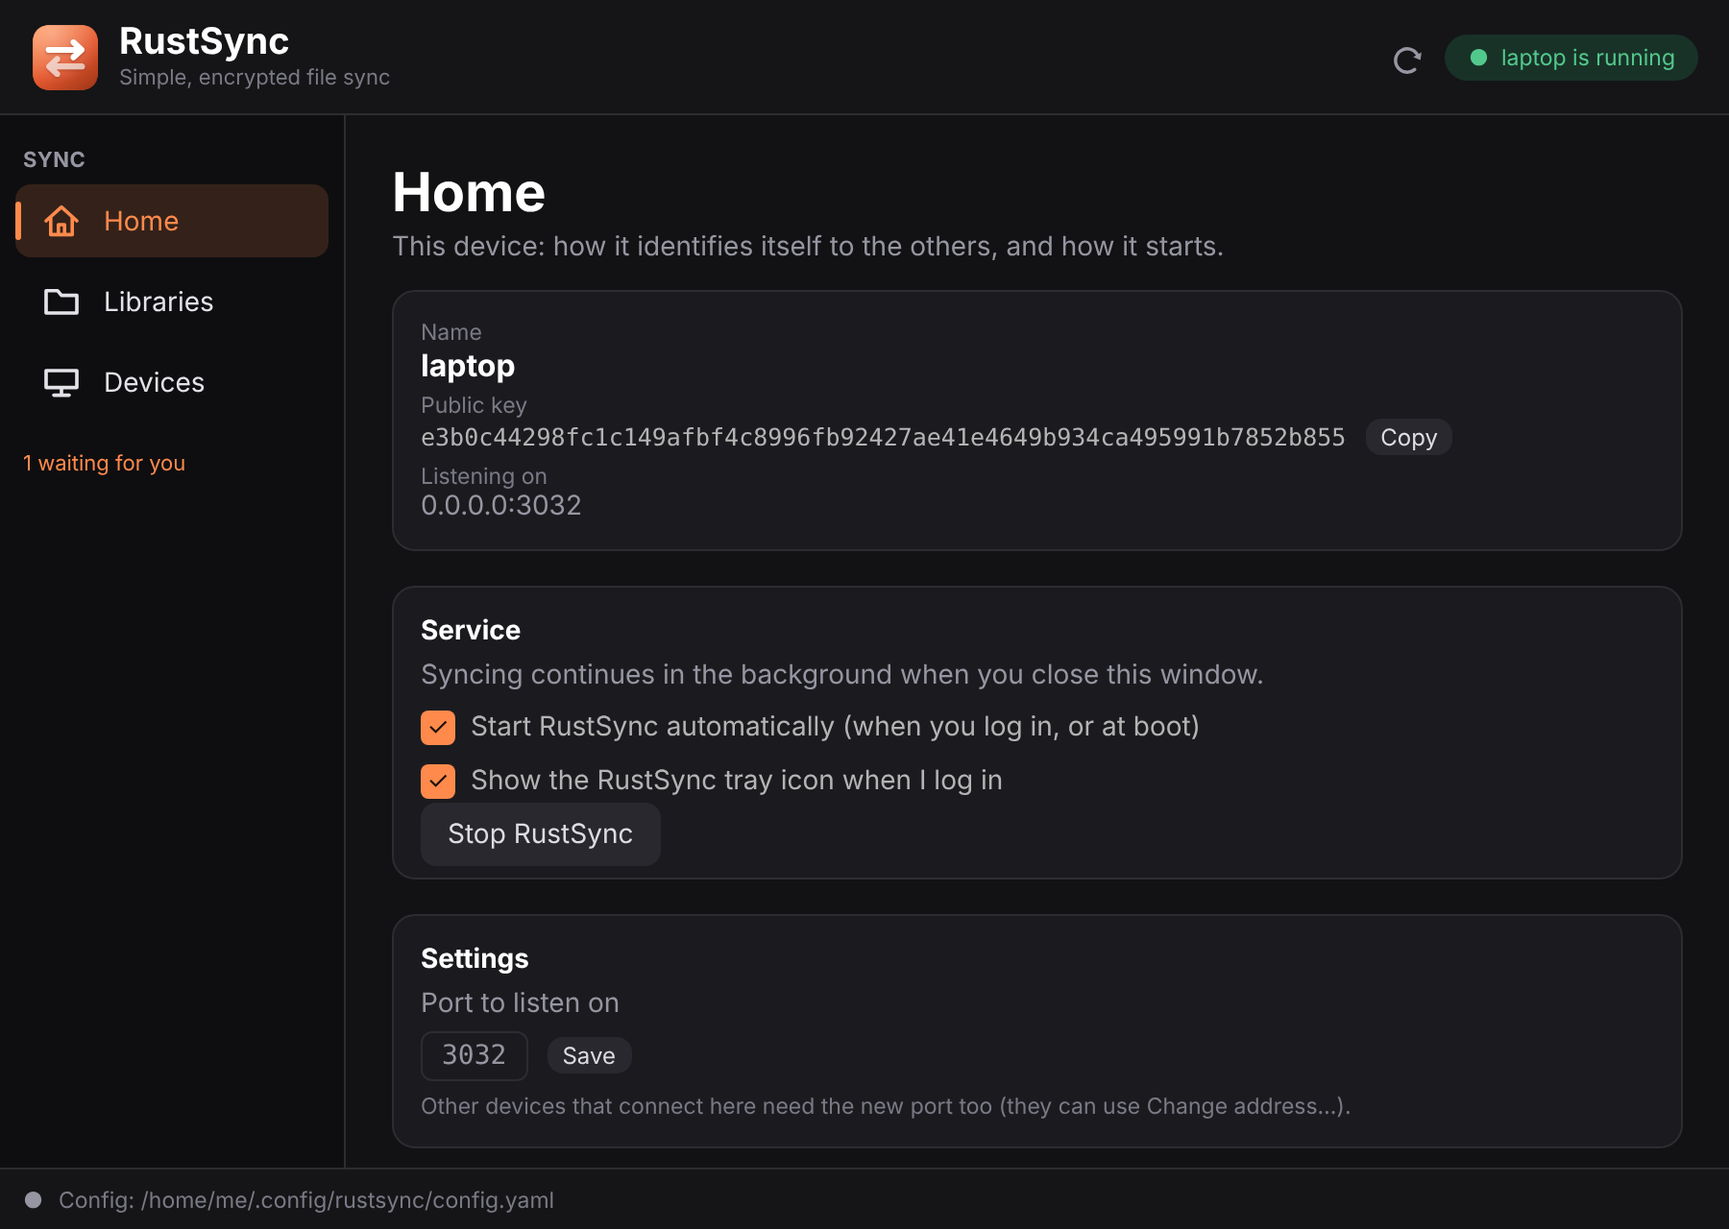
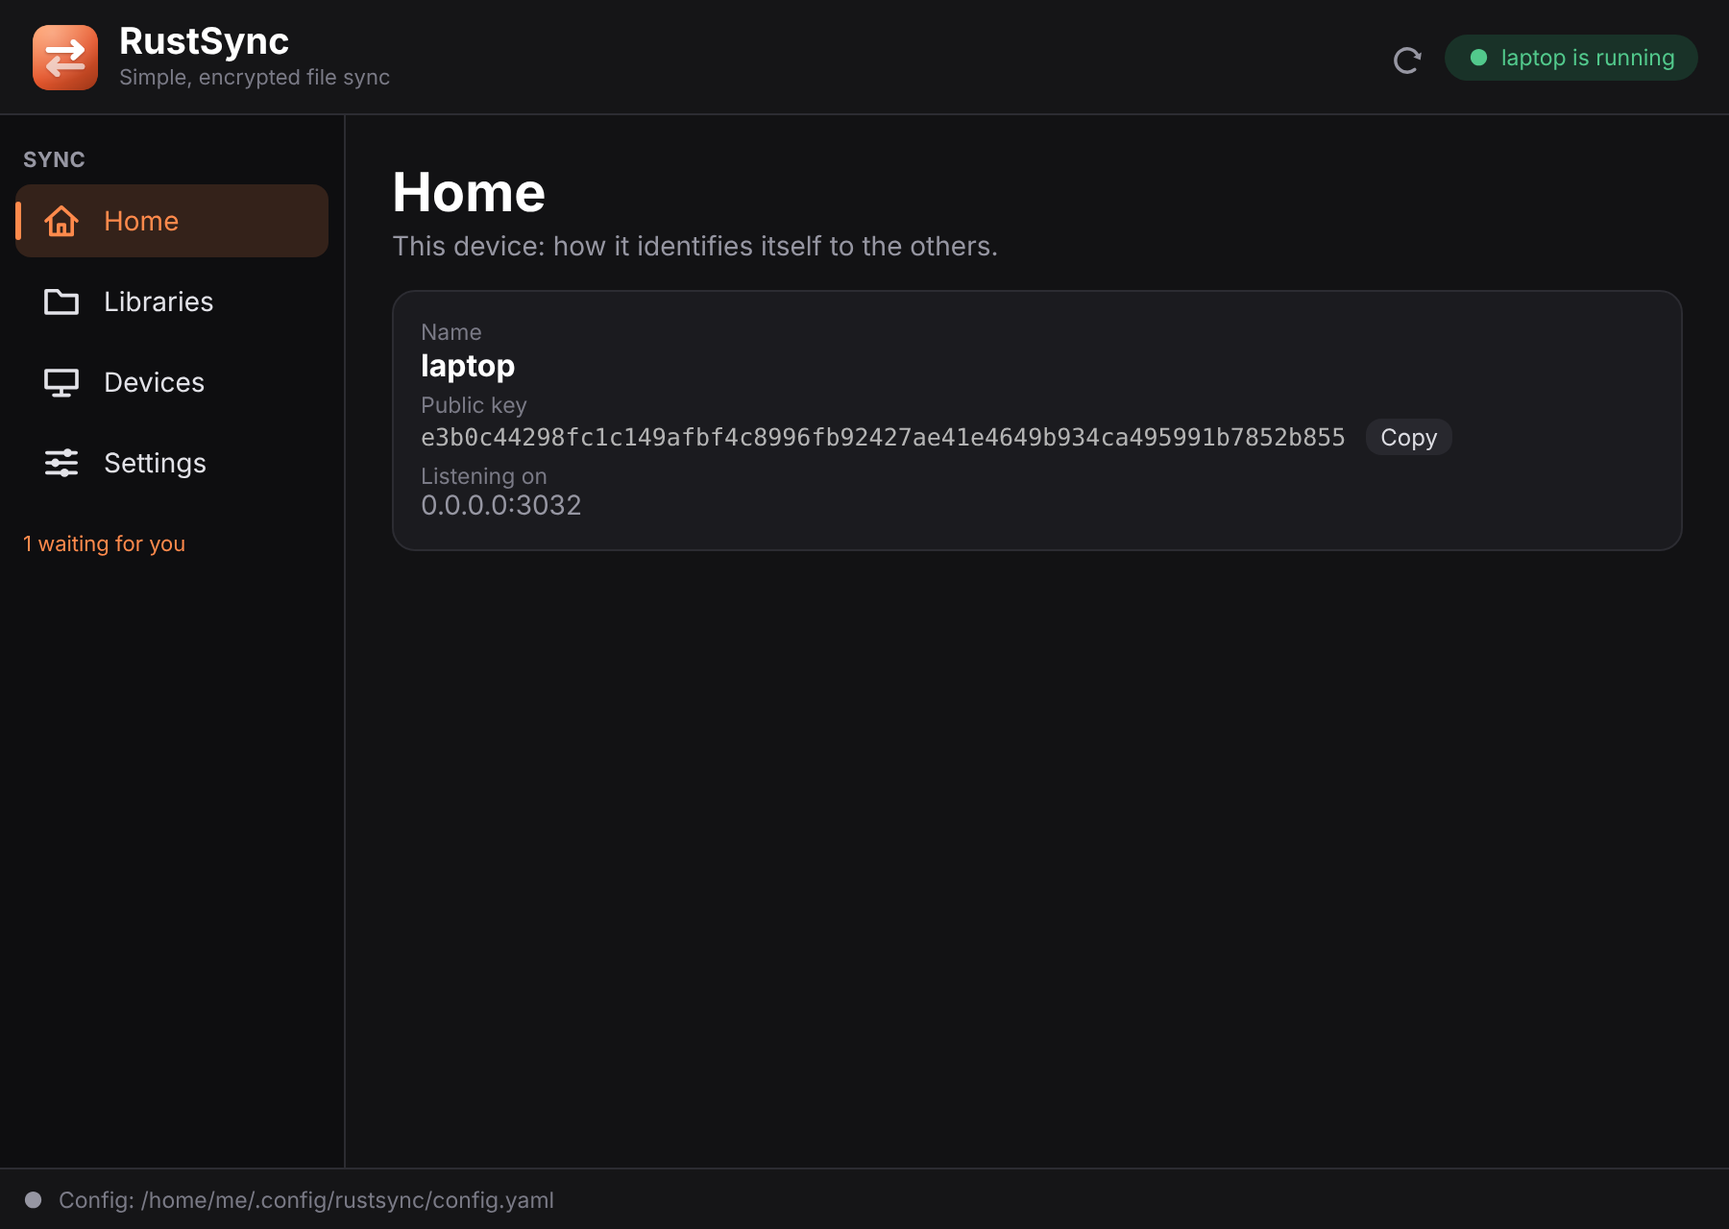
adding settings tab, moving to dmgs for macos

diff --git a/android/app/src/main/java/app/rustsync/MainActivity.kt b/android/app/src/main/java/app/rustsync/MainActivity.kt
@@ -11,40 +11,106 @@ import android.provider.DocumentsContract
 import android.provider.Settings
 import androidx.activity.ComponentActivity
 import androidx.activity.compose.setContent
+import androidx.activity.result.contract.ActivityResultContracts
 import androidx.activity.viewModels
+import androidx.compose.material3.AlertDialog
+import androidx.compose.material3.Text
+import androidx.compose.material3.TextButton
+import androidx.compose.runtime.getValue
+import androidx.compose.runtime.mutableStateOf
+import androidx.compose.runtime.remember
+import androidx.compose.runtime.setValue
 import androidx.core.content.ContextCompat
 
 class MainActivity : ComponentActivity() {
     private val model: Model by viewModels()
 
+    // The ordinary permission pop-ups come first; when they are answered, the one that needs a
+    // screen in Android's settings (all files access, Android 11 and newer).
+    private val runtimePermissions =
+        registerForActivityResult(ActivityResultContracts.RequestMultiplePermissions()) {
+            if (Build.VERSION.SDK_INT >= 30 && !hasAllFilesAccess()) askAllFilesAccess()
+        }
+
     override fun onCreate(savedInstanceState: Bundle?) {
         super.onCreate(savedInstanceState)
-        if (Build.VERSION.SDK_INT >= 33 &&
-            ContextCompat.checkSelfPermission(this, Manifest.permission.POST_NOTIFICATIONS) !=
-            PackageManager.PERMISSION_GRANTED
-        ) {
-            requestPermissions(arrayOf(Manifest.permission.POST_NOTIFICATIONS), 1)
-        }
         SyncService.start(this)
         setContent {
             RustSyncTheme {
+                var setup by remember { mutableStateOf(needsNotifications() || needsCamera() || !hasAllFilesAccess()) }
+                if (setup) {
+                    AlertDialog(
+                        onDismissRequest = { setup = false },
+                        title = { Text("Allow what RustSync needs") },
+                        text = {
+                            Text(
+                                buildString {
+                                    if (needsNotifications()) {
+                                        append("• Notifications: RustSync shows one so Android keeps it running in the background.\n\n")
+                                    }
+                                    if (needsCamera()) {
+                                        append("• Camera: to scan the QR code when you pair another device.\n\n")
+                                    }
+                                    if (!hasAllFilesAccess()) {
+                                        append("• Access to your files: to sync folders such as Documents or Pictures. Android asks for this on a separate settings screen.\n\n")
+                                    }
+                                    append("You can change any of these later in Android's settings.")
+                                },
+                            )
+                        },
+                        confirmButton = {
+                            TextButton(onClick = {
+                                setup = false
+                                requestEverything()
+                            }) { Text("Continue") }
+                        },
+                        dismissButton = { TextButton(onClick = { setup = false }) { Text("Not now") } },
+                    )
+                }
                 App(model, hasAllFilesAccess = { hasAllFilesAccess() }, askAllFilesAccess = { askAllFilesAccess() })
             }
         }
     }
 
+    private fun granted(permission: String): Boolean =
+        ContextCompat.checkSelfPermission(this, permission) == PackageManager.PERMISSION_GRANTED
+
+    private fun needsNotifications(): Boolean =
+        Build.VERSION.SDK_INT >= 33 && !granted(Manifest.permission.POST_NOTIFICATIONS)
+
+    private fun needsCamera(): Boolean = !granted(Manifest.permission.CAMERA)
+
+    /** Before Android 11 "all files" is the ordinary storage permission. */
+    private fun needsOldStorage(): Boolean =
+        Build.VERSION.SDK_INT < 30 &&
+            (!granted(Manifest.permission.READ_EXTERNAL_STORAGE) || !granted(Manifest.permission.WRITE_EXTERNAL_STORAGE))
+
+    private fun requestEverything() {
+        val missing = ArrayList<String>()
+        if (needsNotifications()) missing.add(Manifest.permission.POST_NOTIFICATIONS)
+        if (needsCamera()) missing.add(Manifest.permission.CAMERA)
+        if (needsOldStorage()) {
+            missing.add(Manifest.permission.READ_EXTERNAL_STORAGE)
+            missing.add(Manifest.permission.WRITE_EXTERNAL_STORAGE)
+        }
+        if (missing.isNotEmpty()) {
+            runtimePermissions.launch(missing.toTypedArray())
+        } else if (!hasAllFilesAccess()) {
+            askAllFilesAccess()
+        }
+    }
+
     private fun hasAllFilesAccess(): Boolean =
-        Build.VERSION.SDK_INT < 30 || Environment.isExternalStorageManager()
+        if (Build.VERSION.SDK_INT >= 30) Environment.isExternalStorageManager() else !needsOldStorage()
 
     /** Syncing folders anywhere on the phone needs "all files access", granted in Settings. */
     private fun askAllFilesAccess() {
         if (Build.VERSION.SDK_INT >= 30) {
             val uri = Uri.parse("package:$packageName")
             startActivity(Intent(Settings.ACTION_MANAGE_APP_ALL_FILES_ACCESS_PERMISSION, uri))
-        } else {
-            requestPermissions(
+        } else if (needsOldStorage()) {
+            runtimePermissions.launch(
                 arrayOf(Manifest.permission.READ_EXTERNAL_STORAGE, Manifest.permission.WRITE_EXTERNAL_STORAGE),
-                2,
             )
         }
     }

diff --git a/android/app/src/main/java/app/rustsync/Ui.kt b/android/app/src/main/java/app/rustsync/Ui.kt
@@ -56,7 +56,12 @@ import com.journeyapps.barcodescanner.BarcodeEncoder
 import com.journeyapps.barcodescanner.ScanContract
 import com.journeyapps.barcodescanner.ScanOptions
 
-private val tabs = listOf("Home" to Glyph.Home, "Libraries" to Glyph.Folder, "Devices" to Glyph.Devices)
+private val tabs = listOf(
+    "Home" to Glyph.Home,
+    "Libraries" to Glyph.Folder,
+    "Devices" to Glyph.Devices,
+    "Settings" to Glyph.Settings,
+)
 
 @Composable
 fun App(model: Model, hasAllFilesAccess: () -> Boolean, askAllFilesAccess: () -> Unit) {
@@ -91,9 +96,10 @@ fun App(model: Model, hasAllFilesAccess: () -> Boolean, askAllFilesAccess: () ->
                 Offline(model.offline ?: "")
             } else {
                 when (tab) {
-                    0 -> ThisDevice(model, status, hasAllFilesAccess, askAllFilesAccess)
+                    0 -> ThisDevice(status, hasAllFilesAccess, askAllFilesAccess)
                     1 -> Libraries(model, status)
-                    else -> Devices(model, status)
+                    2 -> Devices(model, status)
+                    else -> SettingsPage(model, status)
                 }
             }
         }
@@ -126,7 +132,7 @@ private fun Offline(reason: String) {
 // ---------------------------------------------------------------- Home
 
 @Composable
-private fun ThisDevice(model: Model, status: Status, hasAllFilesAccess: () -> Boolean, askAllFilesAccess: () -> Unit) {
+private fun ThisDevice(status: Status, hasAllFilesAccess: () -> Boolean, askAllFilesAccess: () -> Unit) {
     var allFiles by remember { mutableStateOf(hasAllFilesAccess()) }
     LaunchedEffect(Unit) { allFiles = hasAllFilesAccess() }
     val clipboard = LocalClipboardManager.current
@@ -157,9 +163,17 @@ private fun ThisDevice(model: Model, status: Status, hasAllFilesAccess: () -> Bo
                 }
             }
         }
+    }
+}
+
+// ---------------------------------------------------------------- Settings
+
+@Composable
+private fun SettingsPage(model: Model, status: Status) {
+    Page("Settings", "How this phone listens, and about RustSync.") {
         RsCard(Modifier.fillMaxWidth()) {
             Column(Modifier.padding(16.dp), verticalArrangement = Arrangement.spacedBy(8.dp)) {
-                Text("Settings", style = MaterialTheme.typography.titleMedium)
+                Text("Network", style = MaterialTheme.typography.titleMedium)
                 Text("Port this phone listens on for the other devices:")
                 var port by remember(status.port) { mutableStateOf(status.port.toString()) }
                 val parsed = port.trim().toIntOrNull()?.takeIf { it in 1..65535 }

diff --git a/android/app/src/main/java/app/rustsync/Theme.kt b/android/app/src/main/java/app/rustsync/Theme.kt
@@ -104,7 +104,7 @@ fun RsCard(modifier: Modifier = Modifier, content: @Composable ColumnScope.() ->
 
 // ---- icons, drawn with lines so they look the same everywhere (and the same as on the desktop)
 
-enum class Glyph { Home, Folder, Devices, Plus, Refresh }
+enum class Glyph { Home, Folder, Devices, Settings, Plus, Refresh }
 
 @Composable
 fun GlyphIcon(glyph: Glyph, modifier: Modifier = Modifier.size(24.dp), color: Color = LocalContentColor.current) {
@@ -133,6 +133,13 @@ fun GlyphIcon(glyph: Glyph, modifier: Modifier = Modifier.size(24.dp), color: Co
                 poly(listOf(at(0.10f, 0.20f), at(0.90f, 0.20f), at(0.90f, 0.64f), at(0.10f, 0.64f)), closed = true)
                 poly(listOf(at(0.50f, 0.64f), at(0.50f, 0.82f)))
                 poly(listOf(at(0.30f, 0.84f), at(0.70f, 0.84f)))
+            }
+            Glyph.Settings -> {
+                // three sliders
+                for ((y, x) in listOf(0.24f to 0.66f, 0.50f to 0.34f, 0.76f to 0.58f)) {
+                    poly(listOf(at(0.12f, y), at(0.88f, y)))
+                    drawCircle(color, radius = 0.11f * s, center = at(x, y))
+                }
             }
             Glyph.Plus -> {
                 poly(listOf(at(0.50f, 0.18f), at(0.50f, 0.82f)))

diff --git a/src/gui.rs b/src/gui.rs
@@ -424,6 +424,7 @@ enum Page {
     Home,
     Libraries,
     Devices,
+    Settings,
 }
 
 #[derive(Default)]
@@ -989,6 +990,7 @@ enum Glyph {
     Home,
     Folder,
     Devices,
+    Settings,
     Plus,
     Refresh,
 }
@@ -1025,6 +1027,13 @@ fn paint_glyph(painter: &egui::Painter, glyph: Glyph, rect: egui::Rect, color: C
             poly(vec![at(0.10, 0.20), at(0.90, 0.20), at(0.90, 0.64), at(0.10, 0.64)], true);
             poly(vec![at(0.50, 0.64), at(0.50, 0.82)], false);
             poly(vec![at(0.30, 0.84), at(0.70, 0.84)], false);
+        }
+        Glyph::Settings => {
+            // Three sliders.
+            for (y, x) in [(0.24f32, 0.66f32), (0.50, 0.34), (0.76, 0.58)] {
+                poly(vec![at(0.12, y), at(0.88, y)], false);
+                painter.circle_filled(at(x, y), size * 0.11, color);
+            }
         }
         Glyph::Plus => {
             poly(vec![at(0.50, 0.18), at(0.50, 0.82)], false);
@@ -1573,6 +1582,9 @@ impl eframe::App for App {
                 if icon_row(ui, Glyph::Devices, "Devices", self.page == Page::Devices, 38.0).clicked() {
                     self.page = Page::Devices;
                 }
+                if icon_row(ui, Glyph::Settings, "Settings", self.page == Page::Settings, 38.0).clicked() {
+                    self.page = Page::Settings;
+                }
                 if let Some(s) = &self.status {
                     let waiting = s.offers.len();
                     if waiting > 0 {
@@ -1593,6 +1605,7 @@ impl eframe::App for App {
                     Page::Libraries => self.show_libraries(ui),
                     Page::Devices => self.show_devices(ui),
                     Page::Home => self.show_home(ui),
+                    Page::Settings => self.show_settings(ui),
                 });
             });
 
@@ -1885,7 +1898,7 @@ impl App {
 
     fn show_home(&mut self, ui: &mut egui::Ui) {
         let Some(status) = self.status.clone() else { return };
-        heading(ui, "Home", "This device: how it identifies itself to the others, and how it starts.");
+        heading(ui, "Home", "This device: how it identifies itself to the others.");
         if let Some(problem) = app_location_problem() {
             card(ui, |ui| {
                 ui.label(RichText::new("Move this app first").strong().color(AMBER));
@@ -1909,10 +1922,20 @@ impl App {
             ui.label(RichText::new("Listening on").small().weak());
             ui.label(&status.listen);
         });
+    }
 
-        ui.add_space(8.0);
+    fn show_settings(&mut self, ui: &mut egui::Ui) {
+        let Some(status) = self.status.clone() else { return };
+        heading(ui, "Settings", "How this device listens and starts, and about RustSync.");
+        if let Some(problem) = app_location_problem() {
+            card(ui, |ui| {
+                ui.label(RichText::new("Move this app first").strong().color(AMBER));
+                ui.add(egui::Label::new(problem).wrap());
+            });
+            ui.add_space(8.0);
+        }
         card(ui, |ui| {
-            ui.label(RichText::new("Settings").strong());
+            ui.label(RichText::new("Network").strong());
             ui.label("Port this machine listens on for the other devices:");
             let current = status.port.to_string();
             let mut text = self.port_edit.clone().unwrap_or_else(|| current.clone());

diff --git a/README.md b/README.md
@@ -275,11 +275,9 @@ rustsync status
 ## The desktop window
 
 Prefer clicking? Start the window with `rustsync-gui` (it has a *Start* button if the service isn't
-running yet). It has three pages, and opens on the first:
+running yet). It has four pages, and opens on the first:
 
-- **Home**: this device: its name, public key, the address it's listening on, and the switches for
-  starting RustSync automatically and for showing its tray (menu bar) icon when you log in. The
-  *Settings* card changes the **port** it listens on.
+- **Home**: this device: its name, public key and the address it's listening on.
 - **Libraries**: your libraries, who they're shared with, how much encrypted-backup space is used,
   and offers waiting for you to accept.
 - **Devices**: the machines you've paired and whether they're online, plus *Show a pairing code* and
@@ -287,6 +285,9 @@ running yet). It has three pages, and opens on the first:
   drop-down of this machine's own IP addresses and host names, or *Set manually…* to type one.
   *Change address…* updates where a device is reached when its IP address changes (the Android
   app has the same button).
+- **Settings**: the **port** this machine listens on; the switches for starting RustSync
+  automatically and for showing its tray (menu bar) icon when you log in; and *About* (version,
+  author and license).
 
 Wherever a library needs a folder (*New library*, *Accept…*, *Restore from backup…*), you choose it
 with a **folder browser** instead of typing a path: shortcuts for your home folder and drives, a
@@ -307,7 +308,10 @@ the only accent (the Android app also has a light version that follows the phone
   <img src="docs/screenshots/devices.png" width="760" alt="The Devices page: pairing buttons and the list of paired machines">
 </p>
 <p align="center">
-  <img src="docs/screenshots/home.png" width="760" alt="The Home page: name, public key, and the start-automatically switches">
+  <img src="docs/screenshots/home.png" width="760" alt="The Home page: name, public key and listening address">
+</p>
+<p align="center">
+  <img src="docs/screenshots/settings.png" width="760" alt="The Settings page: port, start-automatically switches and About">
 </p>
 <p align="center">
   <img src="docs/screenshots/pairing.png" width="760" alt="Pairing: the QR code on one device, and the verification code both devices must agree on">
@@ -393,7 +397,7 @@ rustsync uninstall-service      # stop doing that (also stops rustsync now)
 ```
 
 The first time you run `rustsync start` in a terminal it offers this too (once). With it set up,
-`start` and `stop` simply work with it. The window's *Home* page has the same switch.
+`start` and `stop` simply work with it. The window's *Settings* page has the same switch.
 
 - **Linux:** a systemd *user* service, `~/.config/systemd/user/rustsync.service` (other configs get
   their own name). It restarts rustsync if it crashes and logs to the usual `daemon.log`.
@@ -445,7 +449,7 @@ On a Mac the same small program puts an icon at the top right of the screen, in 
 Dock icon). It follows the light or dark menu bar, is fainter when rustsync is not running, and
 gets a dot when libraries are being offered to you. Its menu opens the window, starts or stops the
 service, and has *Show this icon at login*. Opening the window (for example from the app) also
-shows the icon, and it stays when the window is closed. The *Home* page has the same login switch;
+shows the icon, and it stays when the window is closed. The *Settings* page has the same login switch;
 it adds a launch agent, `~/Library/LaunchAgents/com.rustsync.tray.plist`. To quit the icon, use
 its menu.
 
@@ -464,7 +468,7 @@ if the login entry is broken.
 
 An Android app (a phone or tablet, Android 8 or newer) lives in [`android/`](android/). It runs
 the same sync service inside the app, so the phone is a full device: pair it, share libraries
-with it, accept ones from the others. It has the same three pages as the window (*Home* first),
+with it, accept ones from the others. It has the same four pages as the window (*Home* first, *Settings* last),
 shows a QR code for pairing, and scans one with the camera. To pair, *Devices* opens the camera
 straight from the big *Scan a code* button (upright, like any QR scanner); *Show a code on this
 phone* shows one for the other device to scan, and a small *Enter a code by hand* link is there
@@ -481,14 +485,15 @@ allow installing from that source.
   repository secrets it prints (`ANDROID_KEYSTORE_BASE64`, `ANDROID_KEYSTORE_PASSWORD`,
   `ANDROID_KEY_ALIAS`, `ANDROID_KEY_PASSWORD`). Keep the `rustsync.jks` file safe; it is not in git.
 - **Folders.** To sync folders like Documents or Pictures the app needs Android's "all files
-  access" (the *Home* page has a button for it). Libraries are then created from any folder
-  you pick.
+  access" (the app asks when you first open it, and the *Home* page has a button if you said
+  no). It also asks for notifications and for the camera (to scan pairing codes). Libraries are then
+  created from any folder you pick.
 - **Staying alive.** The app shows a notification while it runs: that is what lets Android leave it
   running in the background. Phones that aggressively stop apps (battery savers) may need rustsync
   set to "unrestricted" battery use.
 - **Reaching the phone.** Other devices connect to the phone, so when you show a pairing code on it
   the address must be one they can reach: pick the Wi-Fi address from the drop-down (it works at
-  home) or choose *Set manually…*. The port it listens on can be changed on the *Home* page.
+  home) or choose *Set manually…*. The port it listens on can be changed on the *Settings* page.
   Pairing the other way round (phone enters the code) works from anywhere the phone can reach the
   other machine.
 
@@ -513,9 +518,11 @@ touches the Rust code, and `Control.kt` speaks the same local JSON protocol as t
   A build on Apple silicon makes an Apple-silicon program; to make an Intel one add
   `--target x86_64-apple-darwin` (after `rustup target add x86_64-apple-darwin`), and the other way
   round on an Intel Mac.
-- To get a double-clickable app with the logo, run `just macos-app` (see
-  [Building and releasing](#building-and-releasing)). It makes `dist/RustSync.app` and a zip of it.
-  Put the app in `/Applications`.
+- The download is a disk image (`rustsync-<version>-macos-<cpu>.dmg`): open it and drag RustSync
+  onto the *Applications* shortcut, then open it from *Applications*. (Running it straight from the
+  disk image or Downloads stops it starting at login: see below.) To make the image yourself, run
+  `just macos-dmg`; `just macos-app` makes just `dist/RustSync.app` (see
+  [Building and releasing](#building-and-releasing)).
 
   The app is not signed by a developer. One you built yourself opens normally; one you downloaded needs
   a right-click, *Open*, the first time (or *Open Anyway* in System Settings, Privacy & Security, or
@@ -553,12 +560,13 @@ with `cargo install just`, `brew install just`, or `pkg install just`). Run `jus
 | `just test` | Run the tests. |
 | `just install` | Build and install both programs into `~/.local/bin` (`PREFIX=/usr/local just install` to change it). |
 | `just package` | Make `dist/rustsync-<version>-<os>-<cpu>.tar.gz` with the programs and docs. |
-| `just macos-app` | On a Mac: make `dist/RustSync.app` (with the logo) and a zip of it. |
+| `just macos-app` | On a Mac: make `dist/RustSync.app` (with the logo). |
+| `just macos-dmg` | On a Mac: make the `.dmg` disk image to hand out (drag the app into Applications). |
 | `just android-apk` | Make `dist/rustsync-<version>-android.apk` (see [The Android app](#the-android-app)). |
 | `just android-keystore` | Make the signing key for the Android app, and print the secrets to add on GitHub. |
 | `just clean` | Remove build output and `dist/`. |
 
-To build for the other kind of CPU on a Mac, set the target: `TARGET=x86_64-apple-darwin just macos-app`.
+To build for the other kind of CPU on a Mac, set the target: `TARGET=x86_64-apple-darwin just macos-dmg`.
 
 **Releases are made by GitHub Actions.** Pushing a tag builds the programs for Linux (Intel/AMD and
 ARM), macOS (Apple silicon and Intel), FreeBSD and Android, and puts them in a **draft** release:
